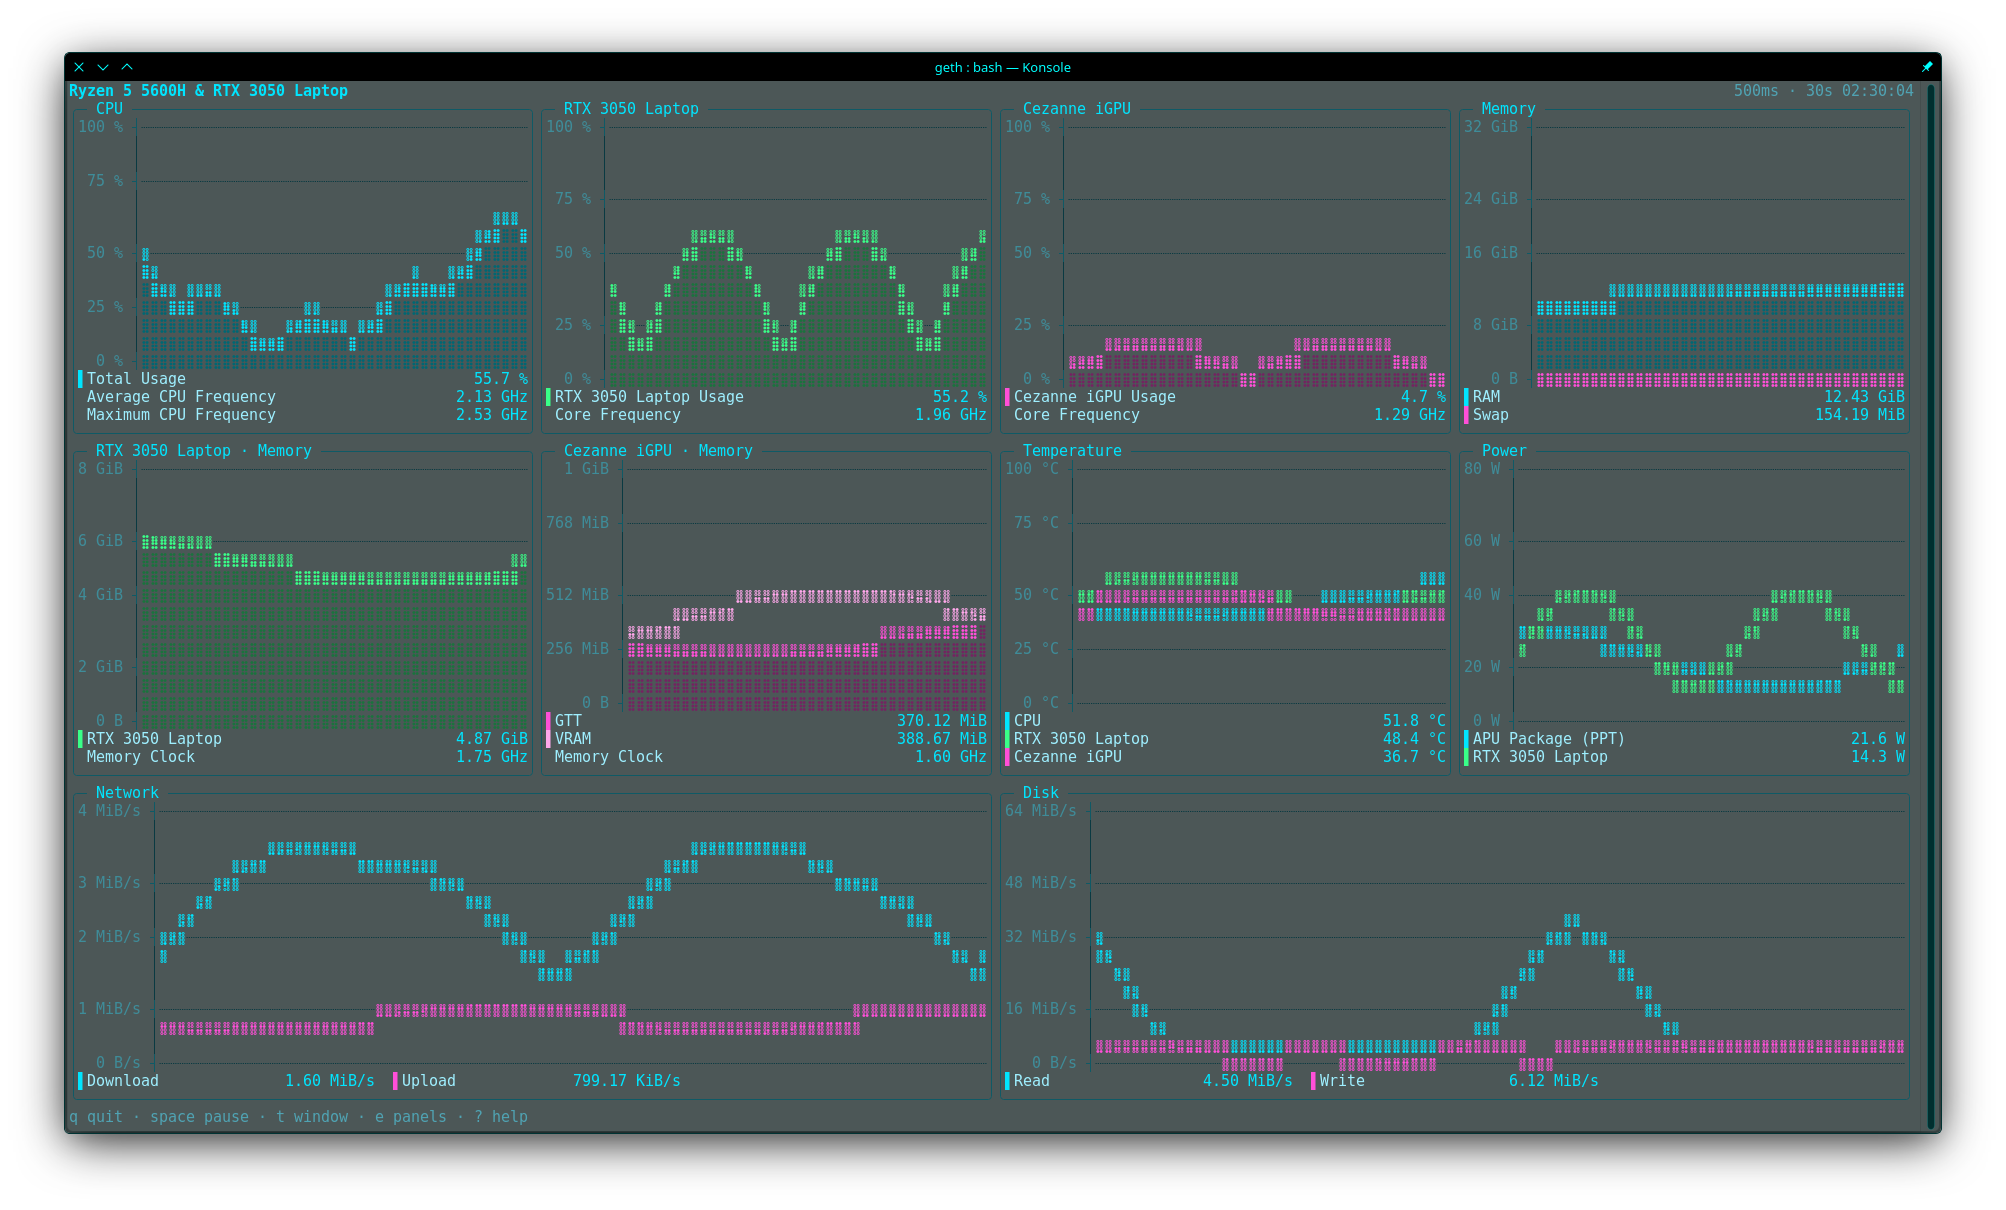
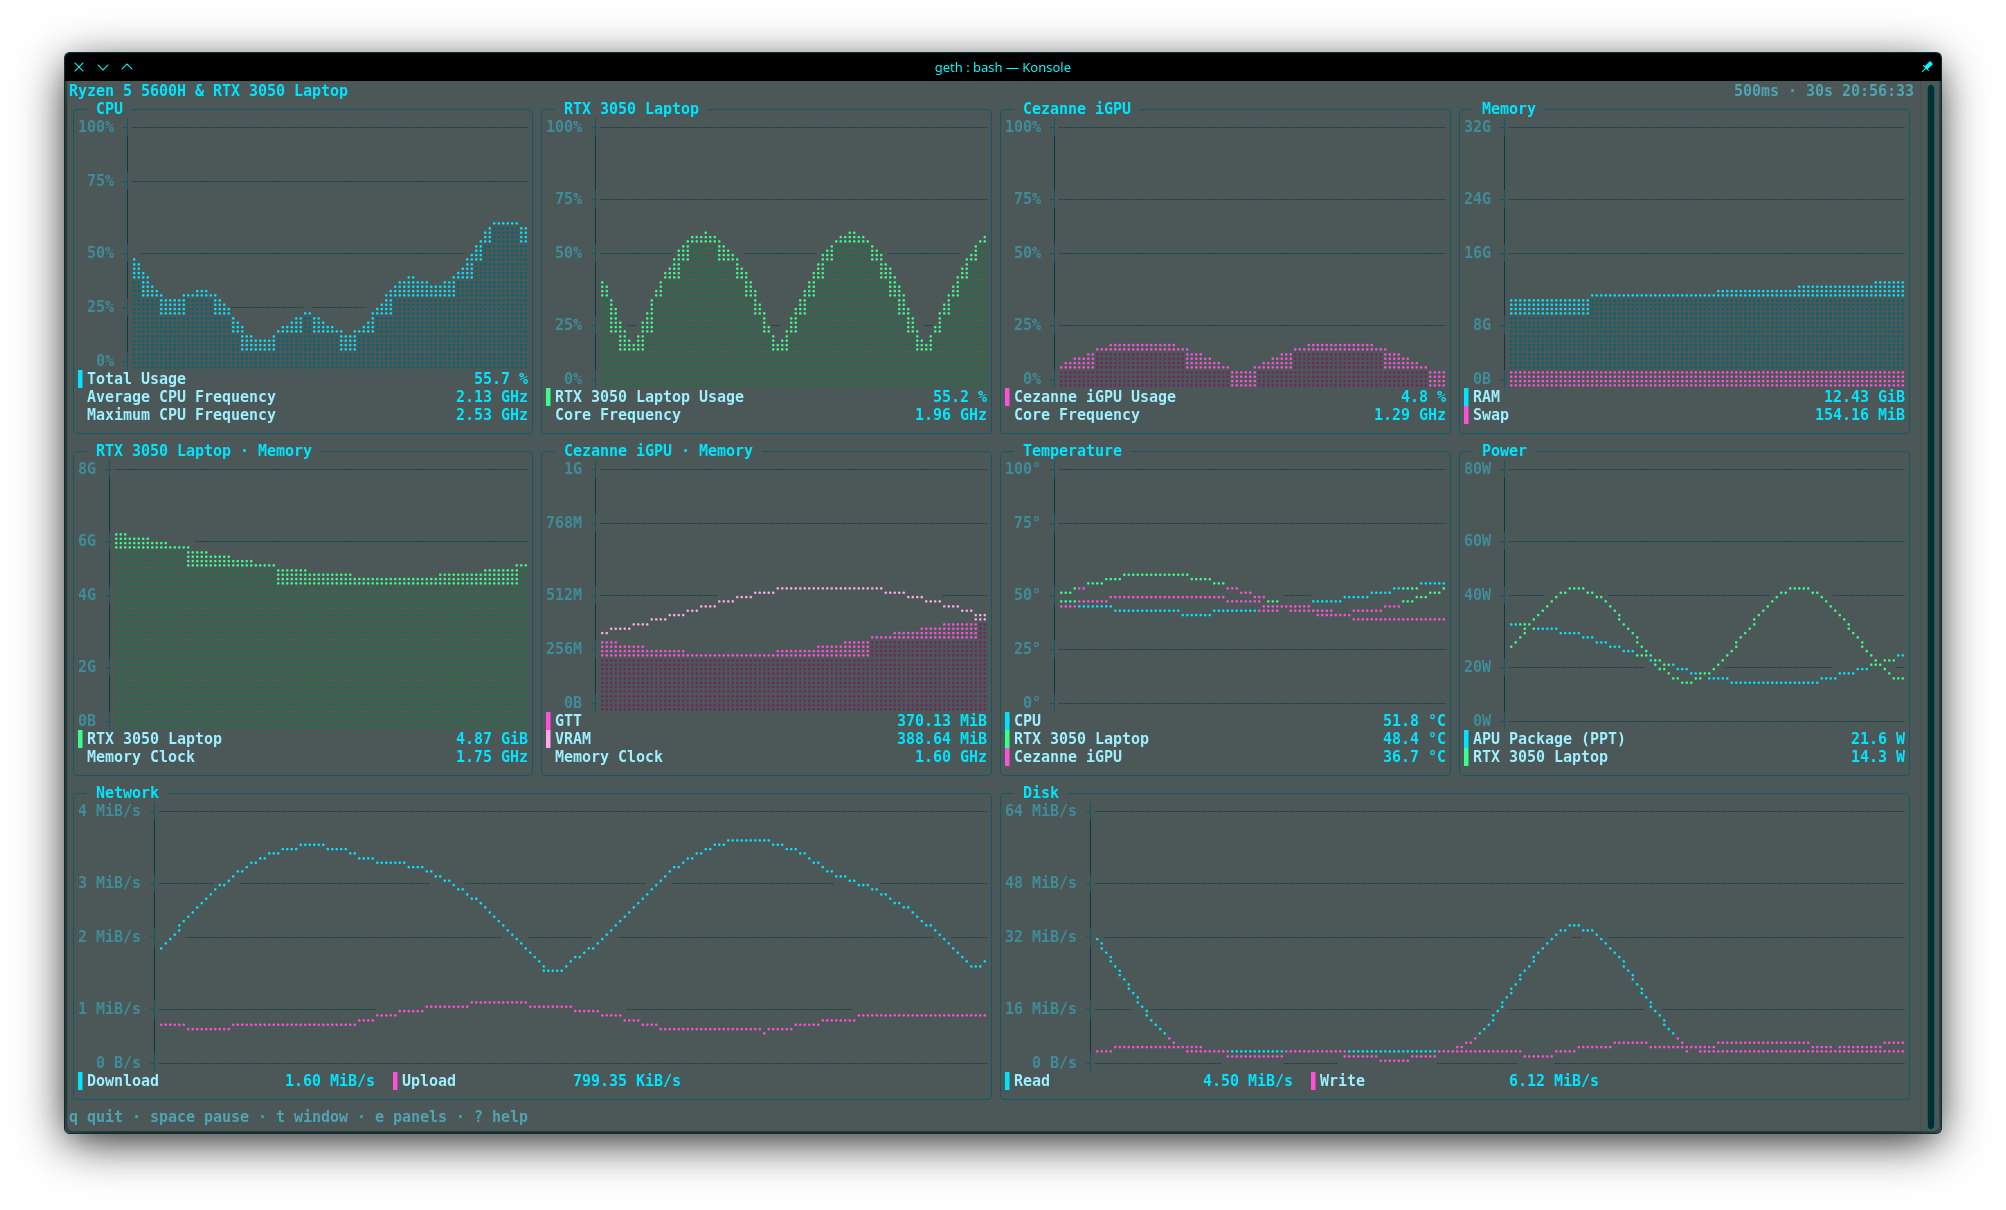
Docs: recapture the 1.0.2 screenshots
All nine docs/screenshots images recaptured live from a Konsole
running geth --demo (Spectacle, 1920x1080): themes/manager/help at
205x58 windowed, wide layout 236x71 fullscreen, narrow 111x31,
compact 85x25. Abbreviated axes visible on every panel under 60
inner columns; 85x25 now fits all ten panels in two columns with
no scrolling. Adds the matching Screenshots section to the 1.0.2
changelog entry.

diff --git a/CHANGELOG.md b/CHANGELOG.md
@@ -65,6 +65,17 @@ every mode, including while scrolling.
   scrolling (their axes now use the abbreviated form, as any panel
   narrower than 60 inner columns does).
 
+### Screenshots
+
+- All nine `docs/screenshots/` images recaptured live from a Konsole
+  window running `geth --demo` (Spectacle, 1920×1080 screen): themes,
+  panel manager, and help at 205×58 (windowed, 11 pt), the wide layout
+  at 236×71 (fullscreen, 10 pt), the narrow layout at 111×31, and the
+  compact layout at 85×25. The abbreviated axes are visible in every
+  panel narrower than 60 inner columns; at 85×25 all ten panels now
+  fit in two columns with no scrolling (previously one column hid
+  seven).
+
 ## 1.0.1 — Release polish (2026-10-16)
 
 Distribution-ready: first-frame positioning fix, install layout, Arch
